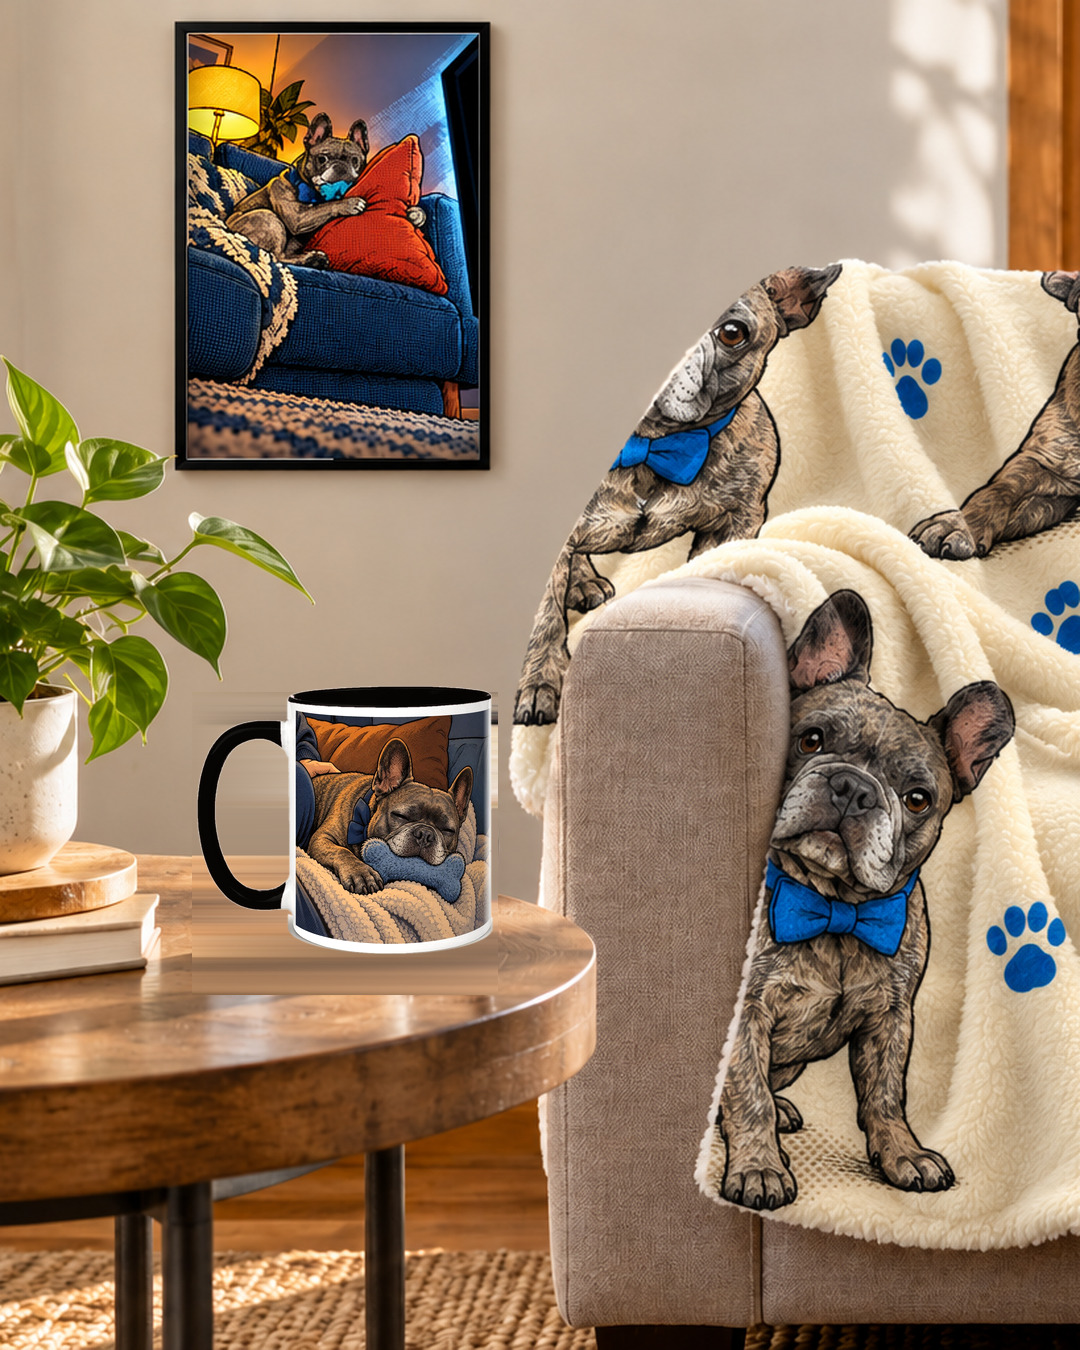
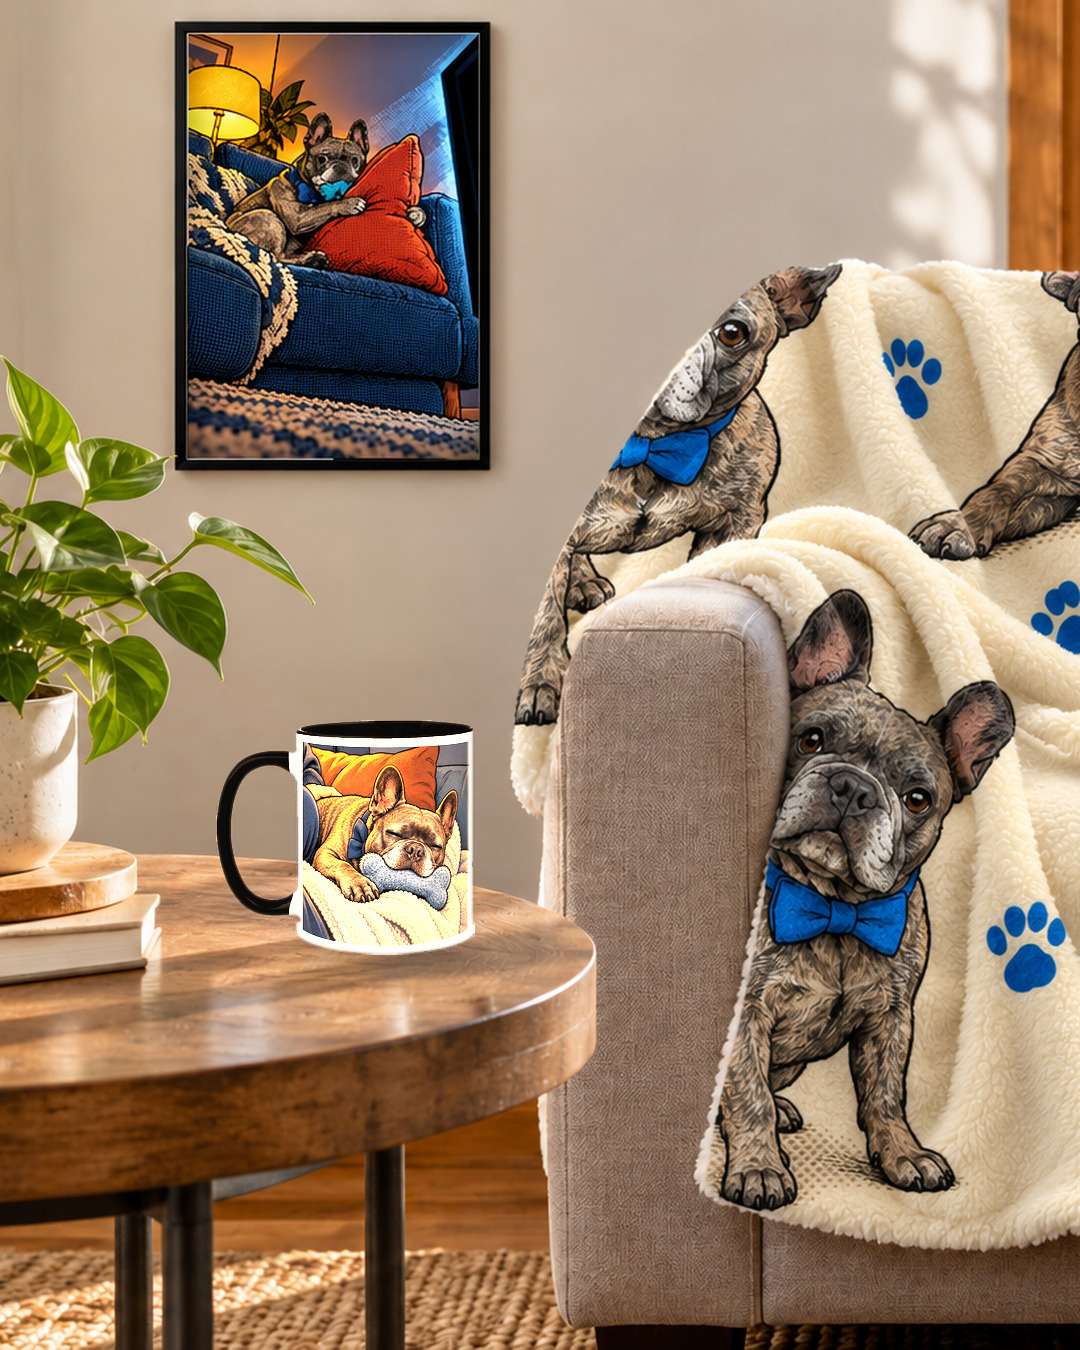
codex: real-mug-on-plates-2026-11-03 (built)

Changed region(s): [[0.1833, 0.4978, 0.4889, 0.7467]]

diff --git a/tools/print-art/real_mug_sets.py b/tools/print-art/real_mug_sets.py
@@ -1,20 +1,17 @@
 #!/usr/bin/env python3
-"""Replace carousel mockups with photographed mugs. Pillow and numpy only.
+"""Place photographed product mugs on approved clean plates using Pillow/numpy.
 
-Artwork is never reflected. All handles remain on the left. Changes are clipped
-at 40 pixels from the supplied boxes; JPEG compression is checked separately.
-
-Observed limitation (2026-11-03): shepherd source mugs extend to about y=884,
-beyond the allowed y=875 / y=855 boundaries. Old lower strips therefore remain.
-Do not publish that image without revised box authority. Cleanup extends 8 px
-sideways and 40 px below the supplied boxes; placement uses original boxes.
-All masks use threshold 24 plus a studio-template lower-rim silhouette to
-separate the attached shadow. The numeric check cannot certify visual quality.
-North Star check (2026-11-03): holds; product-faithful carousel drafts prepared.
-Next: Claude to resolve shepherd bounds before publication.
+No scene reconstruction or generative changes. Studio shadow is removed in
+cutout(); output matte is feathered inward by one pixel. Room matching uses
+one exposure and one red/blue balance correction across the complete mug.
+Status: clean-plate composites, deterministic checks and JPEG review sheet.
+Next: Claude to review the delivered sheet before homepage publication.
+North Star check (2026-11-03): holds; truthful product imagery supports conversion.
 """
 import argparse
+import io
 from collections import deque
+from functools import lru_cache
 from pathlib import Path
 import numpy as np
 from PIL import Image, ImageDraw, ImageFilter
@@ -26,12 +23,16 @@ BOXES = {
     'frenchie': [(200, 700, 490, 955)],
     'doodle': [(235, 610, 475, 820)],
     'dachshund': [(115, 715, 385, 965)],
-    'shepherd': [(90, 555, 390, 835), (405, 550, 705, 815)],
+    'shepherd': [(90, 555, 390, 885), (405, 550, 705, 885)],
 }
 
 
 def source(dog):
     return DEST / 'inputs' / f'set-{dog}-source.png'
+
+
+def plate(dog):
+    return DEST / 'plates' / f'set-{dog}-plate.png'
 
 
 def flood(candidate, seeds):
@@ -52,6 +53,7 @@ def flood(candidate, seeds):
     return seen
 
 
+@lru_cache(maxsize=5)
 def cutout(dog):
     im = Image.open(ROOT / f'design/launch-reel-2026-11-02/inputs/mug-real-{dog}.jpg').convert('RGB')
     a = np.asarray(im).astype(float)
@@ -83,55 +85,102 @@ def cutout(dog):
     base = 1087
     # Keep only the component connected to the painting, rejecting stray shadow.
     mask = flood(mask, [(600,600)])
-    alpha = Image.fromarray((mask*255).astype('uint8')).filter(ImageFilter.GaussianBlur(1.5))
+    alpha = Image.fromarray((mask*255).astype('uint8'))
     rgba = im.convert('RGBA'); rgba.putalpha(alpha)
     bounds = alpha.getbbox()
     print(f'{dog}: threshold 24; studio base {base}; handle LEFT retained (painting not mirrored)')
-    return rgba.crop(bounds)
+    return rgba.crop(bounds), bounds
 
 
-def grown(box, pad=40):
+def grown(box, pad=60):
     l,t,r,b = box
     return max(0,l-pad), max(0,t-pad), min(1080,r+pad), min(1350,b+pad)
 
 
-def place(canvas, original, mug, box):
-    l,t,r,b = grown(box, 8)
-    b = min(1350, box[3]+40)
-    a = np.asarray(original).astype(float)
-    # Reconstruct each wall/table row from uncontaminated strips at either side.
-    # Sampling at the same height preserves the room's wall/table transition.
-    left = np.median(a[t:b, max(0,l-35):max(1,l-12)],axis=1)
-    right = np.median(a[t:b, r+12:min(1080,r+35)],axis=1)
-    weight = np.linspace(0,1,r-l)[None,:,None]
-    fill = left[:,None,:]*(1-weight)+right[:,None,:]*weight
-    patch = Image.fromarray(np.uint8(np.clip(fill,0,255)))
-    canvas.paste(patch,(l,t))
+def positioned(dog, box, product=None):
+    mug, bounds = product if product is not None else cutout(dog)
     l,t,r,b = box
-    scale = max((b-t)*1.06/mug.height, (r-l)/mug.width)
-    size = (round(mug.width*scale),round(mug.height*scale))
-    m = mug.resize(size,Image.Resampling.LANCZOS)
-    x, y = round((l+r-size[0])/2), b-size[1]
-    # Cap exposure correction to eight percent; add only a slight wall WB shift.
-    rgb = np.asarray(m).astype(float).copy()
-    opaque = rgb[:,:,3] > 220
+    # Shared photographed template: rim y=252, lowest ceramic y=1087.
+    scale = .92*(b-t)/(1087-252)
+    size = (round(mug.width*scale), round(mug.height*scale))
+    m = mug.resize(size, Image.Resampling.LANCZOS)
+    # Feather inward, excluding studio background from the antialias fringe.
+    alpha = m.getchannel('A').filter(ImageFilter.MinFilter(3)).filter(ImageFilter.GaussianBlur(1))
+    m.putalpha(alpha)
+    x = round((l+r-size[0])/2)
+    y = round(b - (1087-bounds[1])*scale)
+    return m, x, y, 640*scale
+
+
+def room_target(original, box):
+    a = np.asarray(original, dtype=float)
+    l,t,r,b = box
+    samples = np.concatenate((a[t:b,max(0,l-40):l-8].reshape(-1,3),
+                              a[t:b,r+8:min(1080,r+40)].reshape(-1,3)))
+    return np.mean(samples, axis=0)
+
+
+def match_room(m, target):
+    a = np.asarray(m, dtype=float).copy()
+    opaque = a[:,:,3] > 240
+    rgb = a[:,:,:3]
     lum = np.array([.2126,.7152,.0722])
-    surround = np.concatenate([left,right])
-    factor = np.clip(np.mean(surround@lum)/np.mean(rgb[:,:,:3][opaque]@lum),.92,1.08)
-    wall = np.median(np.concatenate([a[max(0,t-45):t,l-35:l-10].reshape(-1,3),
-                                    a[max(0,t-45):t,r+10:r+35].reshape(-1,3)]),axis=0)
-    warmth = (wall-wall.mean())*.10
-    rgb[:,:,:3] = np.clip(rgb[:,:,:3]*factor+warmth,0,255)
-    m = Image.fromarray(rgb.astype('uint8'),'RGBA')
-    shadow = Image.new('L',canvas.size)
-    dr = ImageDraw.Draw(shadow)
-    sw = size[0]*1.1
-    dr.ellipse(((l+r-sw)/2,b-10,(l+r+sw)/2,b+14), fill=89)
-    shadow = shadow.filter(ImageFilter.GaussianBlur(18))
-    canvas.paste(Image.new('RGB',canvas.size,(30,23,18)),(0,0),shadow)
+    # Iteration compensates for clipping, using the same gains at every pixel.
+    for _ in range(30):
+        mean = rgb[opaque].mean(axis=0)
+        exposure = (target@lum)/(mean@lum)
+        balance = np.sqrt((target[0]/target[2])/(mean[0]/mean[2]))
+        rgb = np.clip(rgb*exposure*np.array([balance,1,1/balance]),0,255)
+    mean = rgb[opaque].mean(axis=0)
+    if abs((mean@lum)/(target@lum)-1) > .06 or abs((mean[0]/mean[2])/(target[0]/target[2])-1) > .06:
+        raise ValueError('Room luminance/warmth matching failed')
+    a[:,:,:3] = rgb
+    return Image.fromarray(a.astype('uint8'), 'RGBA')
+
+
+def place(canvas, original, dog, product, box):
+    m,x,y,base = positioned(dog,box,product)
+    m = match_room(m, room_target(original,box))
+    cx, bottom = x+(662-product[1][0])*base/640, box[3]
+    for opacity, blur, dx, width, height in ((.15,30,base*.25,base*1.4,base*.18),
+                                            (.40,14,0,base*1.05,base*.12)):
+        shadow = Image.new('L',canvas.size)
+        ImageDraw.Draw(shadow).ellipse((cx+dx-width/2,bottom-height/2,
+                                       cx+dx+width/2,bottom+height/2),fill=round(255*opacity))
+        shadow = shadow.filter(ImageFilter.GaussianBlur(blur))
+        canvas.paste((0,0,0),(0,0,canvas.width,canvas.height),shadow)
     canvas.paste(m,(x,y),m)
-    # Hard spatial guarantee: no edits outside the permitted union, including blur.
-    return canvas
+
+
+def edge_ring(dog, boxes):
+    silhouette = Image.new('L',(1080,1350))
+    for box in boxes:
+        m,x,y,_ = positioned(dog,box)
+        core = m.getchannel('A').point(lambda a: 255 if a>=128 else 0)
+        silhouette.paste(core,(x,y),core)
+    core = np.asarray(silhouette)>0
+    outer = np.asarray(silhouette.filter(ImageFilter.MaxFilter(7)))>0
+    return outer & ~core
+
+
+def save_composite(new, clean, dog, boxes, path):
+    # Enforce the halo limit on decoded quality-92 JPEG bytes. This touches
+    # only the three-pixel exterior fringe, never the product interior.
+    ring = edge_ring(dog, boxes)
+    pixels = np.asarray(new,dtype=float).copy()
+    backdrop = np.asarray(clean,dtype=float)
+    lum = np.array([.2126,.7152,.0722])
+    for _ in range(20):
+        stream = io.BytesIO()
+        Image.fromarray(np.uint8(np.clip(pixels,0,255))).save(stream,format='JPEG',quality=92,subsampling=0)
+        decoded = np.asarray(Image.open(io.BytesIO(stream.getvalue())),dtype=float)
+        excess = (decoded-backdrop)@lum
+        bad = ring & (excess > 10)
+        if not bad.any():
+            path.write_bytes(stream.getvalue())
+            return
+        pixels[bad] -= (excess[bad]-6)[:,None]
+    raise ValueError(f'{dog}: could not encode halo-safe JPEG')
 
 
 def build(out):
@@ -142,17 +191,19 @@ def build(out):
         if old.size != (1080,1350):
             raise ValueError(f'{dog}: wrong source dimensions')
         mug=cutout(dog)
-        new=old.copy()
+        clean=Image.open(plate(dog)).convert('RGB')
+        if clean.size != (1080,1350): raise ValueError(f'{dog}: wrong plate size')
+        new=clean.copy()
         for box in boxes:
-            place(new,old,mug,box)
+            place(new,clean,dog,mug,box)
         allowed=Image.new('L',old.size)
         for box in boxes:
             ImageDraw.Draw(allowed).rectangle(grown(box),fill=255)
-        new=Image.composite(new,old,allowed)
-        new.save(out/f'set-{dog}.jpg',quality=92,subsampling=0)
+        new=Image.composite(new,clean,allowed)
+        save_composite(new,clean,dog,boxes,out/f'set-{dog}.jpg')
         # Review the actual delivered JPEG, not the uncompressed working image.
         new=Image.open(out/f'set-{dog}.jpg').convert('RGB')
-        row=Image.new('RGB',(2500,1400 if len(boxes)>1 else 760),(245,241,235))
+        row=Image.new('RGB',(2700,1600 if len(boxes)>1 else 850),(245,241,235))
         draw=ImageDraw.Draw(row)
         draw.text((12,8),f'{dog.upper()} | OLD / REAL PRODUCT | mug details OLD / REAL (2x)',fill='black')
         row.paste(old.resize((540,675)),(0,40)); row.paste(new.resize((540,675)),(540,40))
@@ -162,11 +213,11 @@ def build(out):
             for j,im in enumerate((old,new)):
                 detail=im.crop(crop).resize(((crop[2]-crop[0])*2,(crop[3]-crop[1])*2))
                 if len(boxes)==1:
-                    row.paste(detail,(1080+j*700,60))
+                    row.paste(detail,(1080+j*800,60))
                 else:
-                    row.paste(detail,(1080+j*700,40+i*680))
+                    row.paste(detail,(1080+j*800,40+i*780))
         rows.append(row)
-    sheet=Image.new('RGB',(2500,sum(row.height for row in rows)))
+    sheet=Image.new('RGB',(2700,sum(row.height for row in rows)))
     offset=0
     for row in rows:
         sheet.paste(row,(0,offset))
@@ -182,7 +233,7 @@ def check(out):
         with Image.open(p) as im:
             if im.size!=(1080,1350) or im.mode!='RGB':
                 failures.append(f'{dog}: dimensions/mode'); continue
-            delta=np.abs(np.asarray(im).astype(float)-np.asarray(Image.open(source(dog)).convert('RGB')).astype(float)).mean(axis=2)
+            delta=np.abs(np.asarray(im).astype(float)-np.asarray(Image.open(plate(dog)).convert('RGB')).astype(float)).mean(axis=2)
         outside=np.ones(delta.shape,bool)
         for box in boxes:
             l,t,r,b=grown(box);outside[t:b+1,l:r+1]=False
@@ -190,9 +241,16 @@ def check(out):
             inside=float(delta[t:b,l:r].mean())
             print(f'{dog} {box}: inside MAD {inside:.3f}')
             if inside<=10: failures.append(f'{dog}: unchanged box {box}')
+        ring = edge_ring(dog, boxes)
+        delivered = np.asarray(Image.open(p).convert('RGB'), dtype=float)
+        clean = np.asarray(Image.open(plate(dog)).convert('RGB'), dtype=float)
+        excess = (delivered-clean) @ np.array([.2126,.7152,.0722])
+        halo = float(excess[ring].max())
+        print(f'{dog}: maximum halo luminance excess {halo:.3f}')
+        if halo > 12: failures.append(f'{dog}: halo exceeds 12')
         error=float(delta[outside].mean())
         print(f'{dog}: outside MAD {error:.3f}')
-        if error>=3: failures.append(f'{dog}: outside MAD >= 3')
+        if error>=2: failures.append(f'{dog}: outside MAD >= 2')
     if not (out/'sheet.jpg').is_file(): failures.append('missing sheet')
     if failures: raise SystemExit('\n'.join(failures))
     print('PASS: five RGB JPEGs, every replacement, outside bounds, review sheet')
